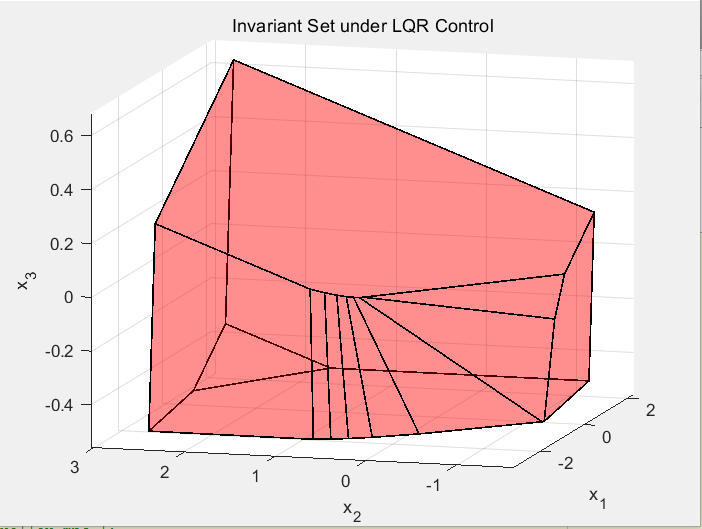
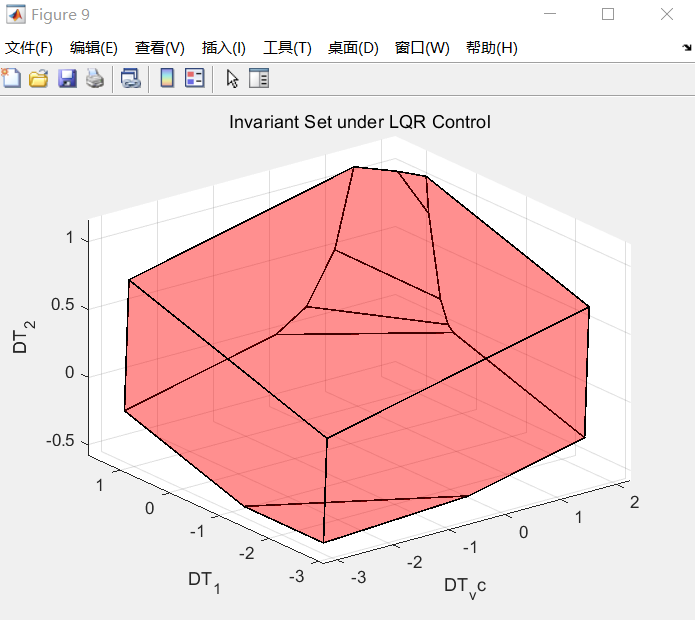
T20 done

diff --git a/src/run_simulations.m b/src/run_simulations.m
@@ -39,8 +39,8 @@ T0_2 = T_sp + [1.5;2.75;-0.25];
 % clear controller_lqr;
 % simulate_building(T0_2, @controller_lqr, Q, R, scen1); % Task8
 %% From LQR to MPC
-% disp('First MPC'); 
-% [A_x, b_x] = compute_X_LQR(Q, R);
+disp('First MPC'); 
+[A_x, b_x] = compute_X_LQR(Q, R);
 % % Task10
 % [K,S,e] = dlqr(param.A, param.B, Q, R);
 % J0_1 = (T0_1-T_sp)'*S*(T0_1-T_sp);
@@ -65,7 +65,7 @@ T0_2 = T_sp + [1.5;2.75;-0.25];
 % [~,~,J3t1] = simulate_building(T0_1, @controller_mpc_3, Q, R, scen1); % Task14-1
 % [~,~,J3t2] = simulate_building(T0_2, @controller_mpc_3, Q, R, scen1); % Task14-2
 
-% % Task15 ???
+% % Task15 
 % disp(['opt costs of T0_1 = ' num2str(sum(J1t1)) ',   ' num2str(sum(J2t1)) ',   ' num2str(sum(J3t1))])
 % disp(['opt costs of T0_2 = ' num2str(sum(J1t2)) ',   ' num2str(sum(J2t2)) ',   ' num2str(sum(J3t2))])
 
@@ -82,19 +82,19 @@ T0_2 = T_sp + [1.5;2.75;-0.25];
 % clear controller_mpc_4;
 % simulate_building(T0_1, @controller_mpc_3, Q, R, scen1); % Task19-1
 % simulate_building(T0_1, @controller_mpc_4, Q, R, scen1); % Task19-2
-figure(20); set(gcf, 'WindowStyle' ,'docked');
-d = zeros(3,scen2.Nbar + 30);
-d(1,36:50) = -1e4;
-d(2,37:43) = 5e3;
-d(3,45:49) = 1.9e3;
-clear controller_mpc_5;
-simulate_building(T0_1, @controller_mpc_5, Q, R, scen2,1,30,d); % Task20
+% figure(20); set(gcf, 'WindowStyle' ,'docked');
+% d = zeros(3,scen2.Nbar + 30);
+% d(1,36:50) = -1e4;
+% d(2,37:43) = 5e3;
+% d(3,45:49) = 1.9e3;
+% clear controller_mpc_5;
+% simulate_building(T0_1, @controller_mpc_5, Q, R, scen2,1,30,d); % Task20
 
 %% Offset-free MPC
-disp('Offset-free MPC');
+% disp('Offset-free MPC');
 
 
 
 
 %% Comparison using forces
-disp('MPC Implementation with FORCES Pro');
+% disp('MPC Implementation with FORCES Pro');

diff --git a/src/compute_X_LQR.m b/src/compute_X_LQR.m
@@ -17,12 +17,12 @@ function [A_x, b_x] = compute_X_LQR(Q, R)
     Xmin = param.Xcons(:,1);
     Umax = param.Ucons(:,2);
     Umin = param.Ucons(:,1);
-    Xp = Polyhedron('A',[eye(3);-eye(3);K;-K;],'b',[Xmax; -Xmin; Umax; -Umin;]);
-    % figure(9);hold on; grid on;
+    Xp = Polyhedron('A',[eye(3);-eye(3);-K;+K;],'b',[Xmax; -Xmin; Umax; -Umin;]);
+    figure(9);hold on; grid on;
     sys_LQR.x.with('setConstraint');
     sys_LQR.x.setConstraint = Xp;
     InvSetLQR = sys_LQR.invariantSet();
-    % InvSetLQR.plot(), alpha(0.25), title('Invariant Set under LQR Control'), xlabel('DT_vc'), ylabel('DT_1'),zlabel('DT_2')
+    InvSetLQR.plot(), alpha(0.25), title('Invariant Set under LQR Control'), xlabel('DT_vc'), ylabel('DT_1'),zlabel('DT_2')
     A_x = InvSetLQR.A;
     b_x = InvSetLQR.b;
 end
